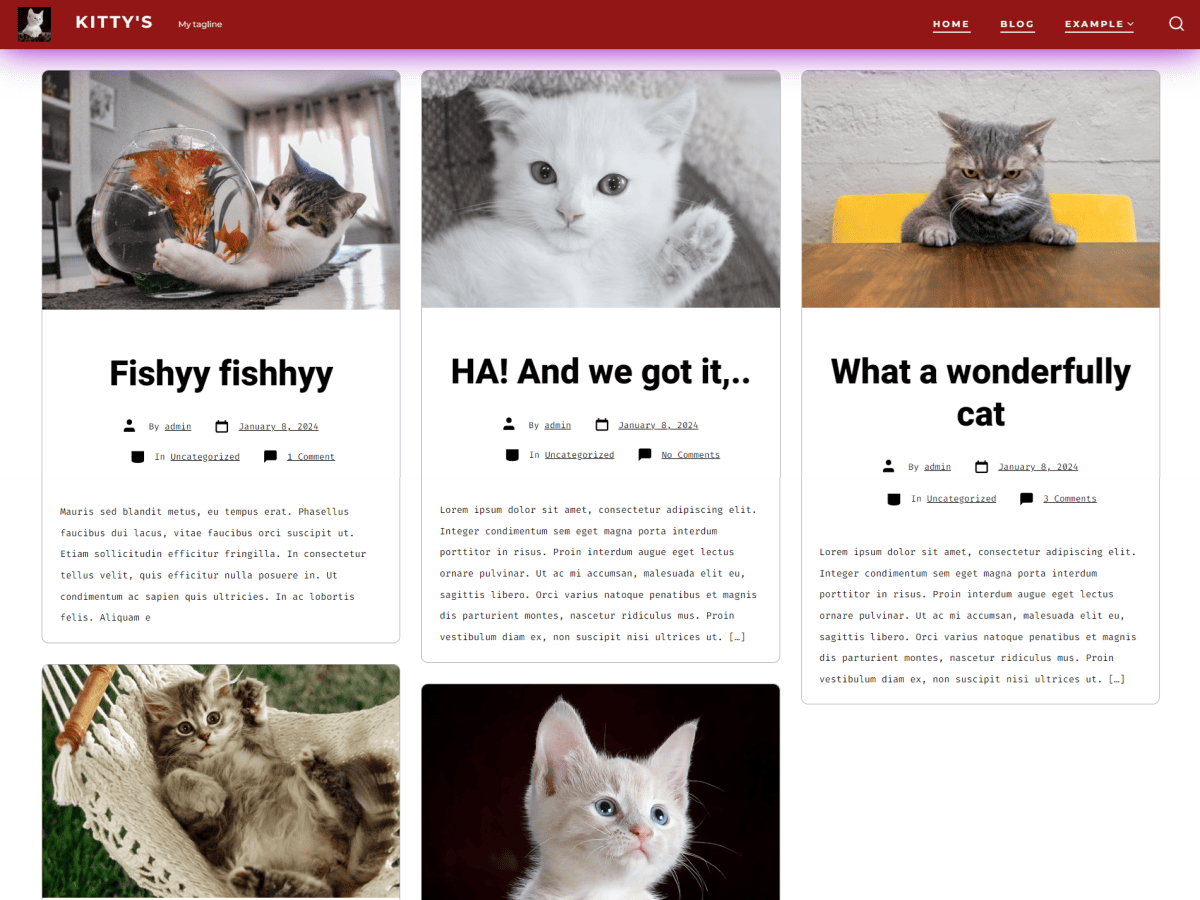
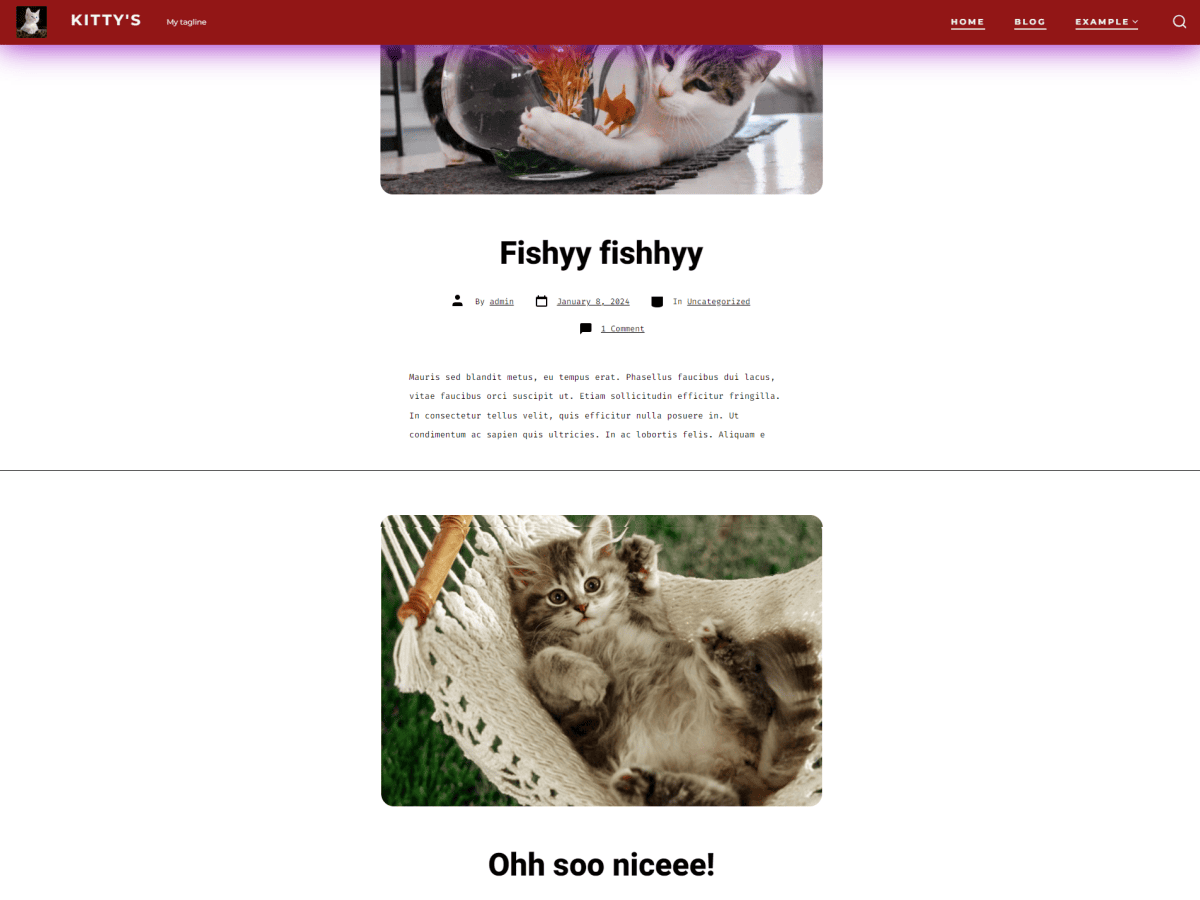
Updated screenshot and theme description.

diff --git a/style.css b/style.css
@@ -3,7 +3,7 @@
  * Theme Name:   Commander Go
  * Template:     go
  * Theme URI:    https://github.com/doctornotsure/commander-go
- * Description:  Commander is an extension theme of the Go theme.
+ * Description:  Commander is an extension theme of the Go theme. Feature images are now enabled on post lists.
  * Author:       DoctorNotSure
  * Author URI:   https://www.doctornotsure.com
  * Version:      1.0.0
